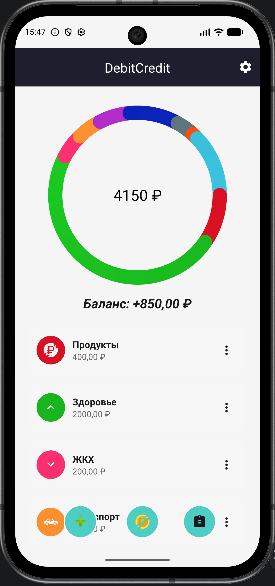
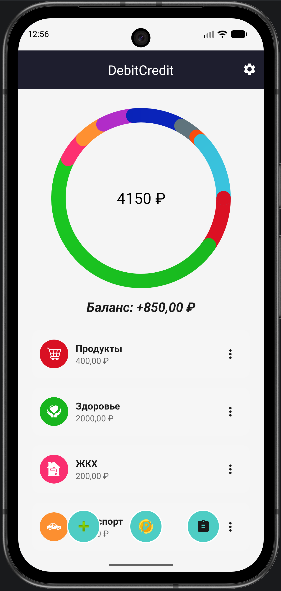
debag

diff --git a/app/src/main/java/ru/github/debitcredit/presentation/viewmodel/MainViewModel.kt b/app/src/main/java/ru/github/debitcredit/presentation/viewmodel/MainViewModel.kt
@@ -5,12 +5,15 @@ import androidx.lifecycle.MutableLiveData
 import androidx.lifecycle.ViewModel
 import androidx.lifecycle.viewModelScope
 import dagger.hilt.android.lifecycle.HiltViewModel
+import kotlinx.coroutines.Dispatchers
 import kotlinx.coroutines.flow.combine
 import kotlinx.coroutines.flow.launchIn
 import kotlinx.coroutines.flow.onEach
 import kotlinx.coroutines.launch
+import ru.github.debitcredit.data.model.CategoryEntity
 import ru.github.debitcredit.data.model.TransactionEntity
 import ru.github.debitcredit.domain.model.Category
+import ru.github.debitcredit.domain.repository.ICategoryRepository
 import ru.github.debitcredit.domain.repository.ITransactionRepository
 import ru.github.debitcredit.domain.usecase.category.AddCategoryUseCase
 import ru.github.debitcredit.domain.usecase.category.DeleteCategoryUseCase
@@ -27,7 +30,8 @@ class MainViewModel @Inject constructor(
     private val deleteCategoryUseCase: DeleteCategoryUseCase,
     private val addTransactionUseCase: AddTransactionUseCase,
     private val getStatisticsUseCase: GetStatisticsUseCase,
-    private val transactionRepository: ITransactionRepository
+    private val transactionRepository: ITransactionRepository,
+    private val categoryRepository: ICategoryRepository
 ) : ViewModel() {
 
     data class MainUiData(
@@ -46,6 +50,8 @@ class MainViewModel @Inject constructor(
     private val _transactions = MutableLiveData<List<TransactionEntity>>(emptyList())
     val transactions: LiveData<List<TransactionEntity>> = _transactions
 
+//    private var isIconsUpdated = false
+
     init {
         loadData()
         loadTransactions()
@@ -58,6 +64,13 @@ class MainViewModel @Inject constructor(
                     getCategoriesUseCase(),
                     getStatisticsUseCase()
                 ) { categories, statistics ->
+                    // Обновляем иконки в фоновом потоке
+//                    if (!isIconsUpdated) {
+//                        viewModelScope.launch(Dispatchers.IO) {
+//                            updateCategoryIcons(categories)
+//                        }
+//                    }
+
                     _categories.value = categories
                     MainUiData(
                         categories = categories,
@@ -72,6 +85,35 @@ class MainViewModel @Inject constructor(
                     .launchIn(this)
             } catch (e: Exception) {
                 _uiState.value = UiState.Error(e.message ?: "Unknown error")
+            }
+        }
+    }
+
+    fun updateCategoryIcon(categoryId: Int, newIconRes: Int) {
+        viewModelScope.launch(Dispatchers.IO) {
+            try {
+                val currentState = _uiState.value
+                if (currentState is UiState.Success) {
+                    val category = currentState.data.categories.find { it.id == categoryId }
+                    category?.let {
+                        val categoryEntity = CategoryEntity(
+                            id = it.id,
+                            name = it.name,
+                            amount = it.amount,
+                            color = it.color,
+                            iconRes = newIconRes,
+                            date = it.date
+                        )
+                        categoryRepository.update(categoryEntity)
+                        android.util.Log.d(
+                            "MainViewModel",
+                            "Updated icon for: ${it.name} -> $newIconRes"
+                        )
+                        refreshData()
+                    }
+                }
+            } catch (e: Exception) {
+                android.util.Log.e("MainViewModel", "Error updating icon", e)
             }
         }
     }
@@ -132,9 +174,18 @@ class MainViewModel @Inject constructor(
             val category = currentState.data.categories.find { it.name == categoryName }
             category?.let {
                 val updatedCategory = it.copy(amount = newAmount)
-                viewModelScope.launch {
+                viewModelScope.launch(Dispatchers.IO) {
                     try {
-                        addCategoryUseCase(updatedCategory)
+                        val categoryEntity = CategoryEntity(
+                            id = updatedCategory.id,
+                            name = updatedCategory.name,
+                            amount = updatedCategory.amount,
+                            color = updatedCategory.color,
+                            iconRes = updatedCategory.iconRes,
+                            date = updatedCategory.date
+                        )
+                        categoryRepository.update(categoryEntity)
+                        refreshData()
                     } catch (e: Exception) {
                         e.stackTrace
                     }

diff --git a/app/src/main/java/ru/github/debitcredit/presentation/ui/main/MainFragment.kt b/app/src/main/java/ru/github/debitcredit/presentation/ui/main/MainFragment.kt
@@ -12,10 +12,13 @@ import androidx.appcompat.app.AlertDialog
 import androidx.core.graphics.toColorInt
 import androidx.fragment.app.Fragment
 import androidx.fragment.app.viewModels
+import androidx.lifecycle.lifecycleScope
 import androidx.navigation.fragment.findNavController
 import androidx.recyclerview.widget.LinearLayoutManager
 import androidx.recyclerview.widget.RecyclerView
 import dagger.hilt.android.AndroidEntryPoint
+import kotlinx.coroutines.Dispatchers
+import kotlinx.coroutines.launch
 import ru.github.debitcredit.R
 import ru.github.debitcredit.customview.StatsView
 import ru.github.debitcredit.data.model.CategoryEntity
@@ -39,6 +42,7 @@ class MainFragment : Fragment() {
     private lateinit var balanceTextView: TextView
     private var _binding: FragmentMainBinding? = null
     private val binding get() = _binding!!
+    private var isIconsFixed = false
 
     override fun onCreateView(
         inflater: LayoutInflater,
@@ -86,7 +90,6 @@ class MainFragment : Fragment() {
         statsView = view.findViewById(R.id.statsView)
         categoryRecyclerView = view.findViewById(R.id.categoryRecyclerView)
 
-        // Инициализируем все кнопки
         transactionsButton = view.findViewById(R.id.transactionsButton)
         addCategoryButton = view.findViewById(R.id.addCategoryButton)
         incomeButton = view.findViewById(R.id.incomeButton)
@@ -166,10 +169,43 @@ class MainFragment : Fragment() {
                     categoryAdapter.submitList(categories)
                     updateStatsView(state.data.categories)
                     updateBalance(state.data.balance)
+
+                    // Проверяем и исправляем иконки (только один раз)
+                    if (!isIconsFixed) {
+                        fixCategoryIcons(state.data.categories)
+                    }
                 }
                 is UiState.Error -> {
                     Toast.makeText(requireContext(), state.message, Toast.LENGTH_SHORT).show()
                 }
+            }
+        }
+    }
+
+    private fun fixCategoryIcons(categories: List<Category>) {
+        viewLifecycleOwner.lifecycleScope.launch(Dispatchers.IO) {
+            try {
+                var needUpdate = false
+                categories.forEach { category ->
+                    val correctIconRes = CategoryMapper.getIconRes(category.name)
+                    if (category.iconRes != correctIconRes) {
+                        // Используем метод ViewModel для обновления иконки
+                        viewModel.updateCategoryIcon(category.id, correctIconRes)
+                        needUpdate = true
+                        android.util.Log.d("MainFragment", "Updating icon for: ${category.name}")
+                    }
+                }
+
+                if (needUpdate) {
+                    isIconsFixed = true
+                    android.util.Log.d("MainFragment", "All icons updated")
+                    // Обновляем UI после небольшой задержки
+                    viewLifecycleOwner.lifecycleScope.launch(Dispatchers.Main) {
+                        viewModel.refreshData()
+                    }
+                }
+            } catch (e: Exception) {
+                android.util.Log.e("MainFragment", "Error fixing icons", e)
             }
         }
     }
@@ -239,12 +275,10 @@ class MainFragment : Fragment() {
     }
 
     private fun setupClickListeners() {
-        // Кнопка "Все транзакции"
         transactionsButton.setOnClickListener {
             findNavController().navigate(R.id.transactionsFragment)
         }
 
-        // Кнопка "Доход"
         incomeButton.setOnClickListener {
             val bundle = Bundle().apply {
                 putBoolean("is_income_mode", true)
@@ -257,7 +291,6 @@ class MainFragment : Fragment() {
             findNavController().navigate(R.id.categoryEditFragment, bundle)
         }
 
-        // Кнопка "Добавить категорию"
         addCategoryButton.setOnClickListener {
             findNavController().navigate(R.id.selectCategoryFragment)
         }

diff --git a/app/src/main/java/ru/github/debitcredit/presentation/ui/edit/CategoryEditFragment.kt b/app/src/main/java/ru/github/debitcredit/presentation/ui/edit/CategoryEditFragment.kt
@@ -86,6 +86,10 @@ class CategoryEditFragment : Fragment() {
         amountEditText = view.findViewById(R.id.amountEditText)
         amountEditText.setText("")
         amountEditText.hint = getString(R.string.add_amount)
+        // постоянно блый цвет вносимой суммы
+        amountEditText.setTextColor(Color.WHITE)
+        // полупрозрачный цвет подсказки
+        amountEditText.setHintTextColor(Color.argb(180, 255, 255, 255))
 
         // Обработка клика по полю ввода - переключаем клавиатуру
         amountEditText.setOnClickListener {

diff --git a/app/src/main/java/ru/github/debitcredit/DebitCreditApplication.kt b/app/src/main/java/ru/github/debitcredit/DebitCreditApplication.kt
@@ -30,9 +30,10 @@ class DebitCreditApplication : Application() {
             // Проверяем обновления в фоновом потоке
             CoroutineScope(Dispatchers.IO).launch {
                 try {
+                    // Проверка обновлений
                     UpdateChecker.checkForUpdates(this@DebitCreditApplication)
                 } catch (e: Exception) {
-                    Log.d("Application", "Update check skipped: ${e.message}")
+                    Log.d("Application", "Background init error: ${e.message}")
                 }
             }
 

diff --git a/app/src/main/java/ru/github/debitcredit/customview/StatsView.kt b/app/src/main/java/ru/github/debitcredit/customview/StatsView.kt
@@ -7,6 +7,7 @@ import android.graphics.*
 import android.util.AttributeSet
 import android.view.View
 import android.view.animation.LinearInterpolator
+import ru.github.debitcredit.R
 import java.util.Locale
 import kotlin.math.cos
 import kotlin.math.min
